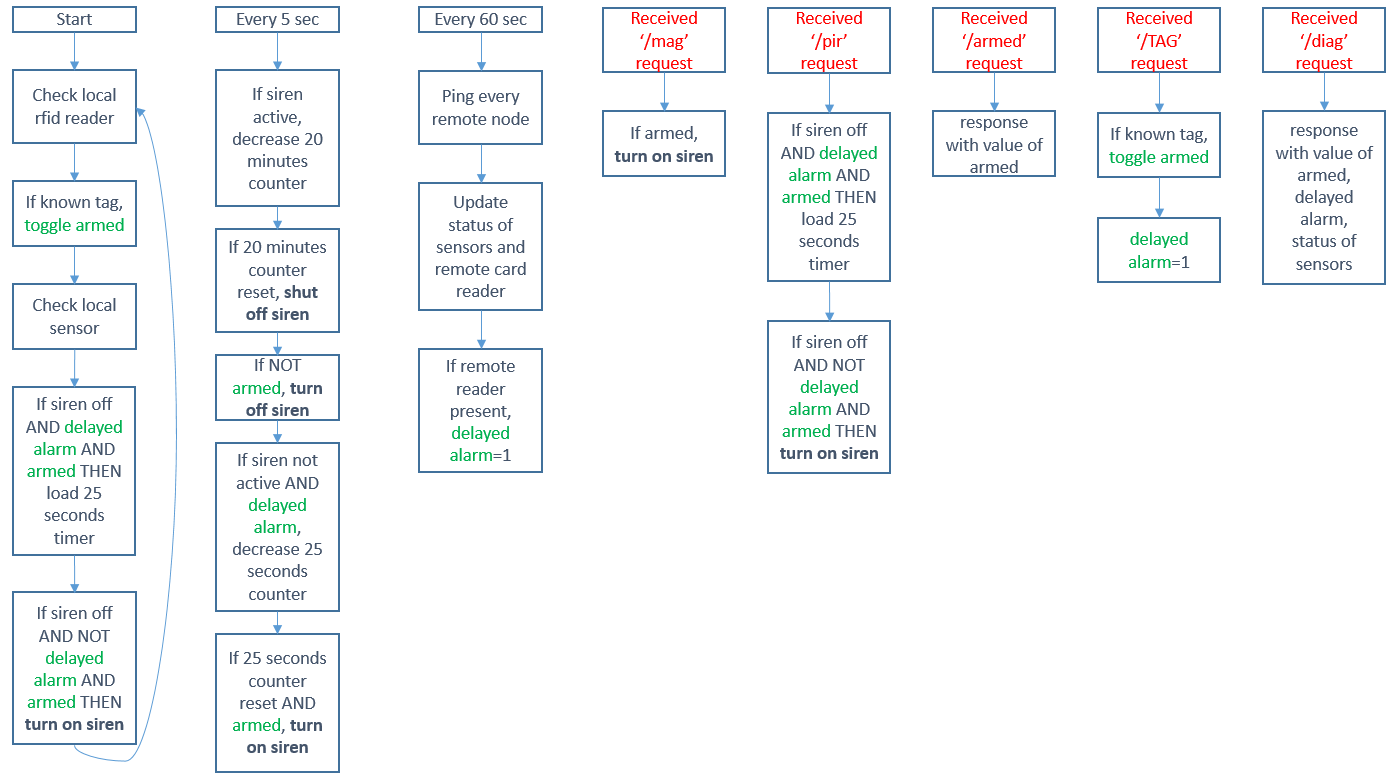
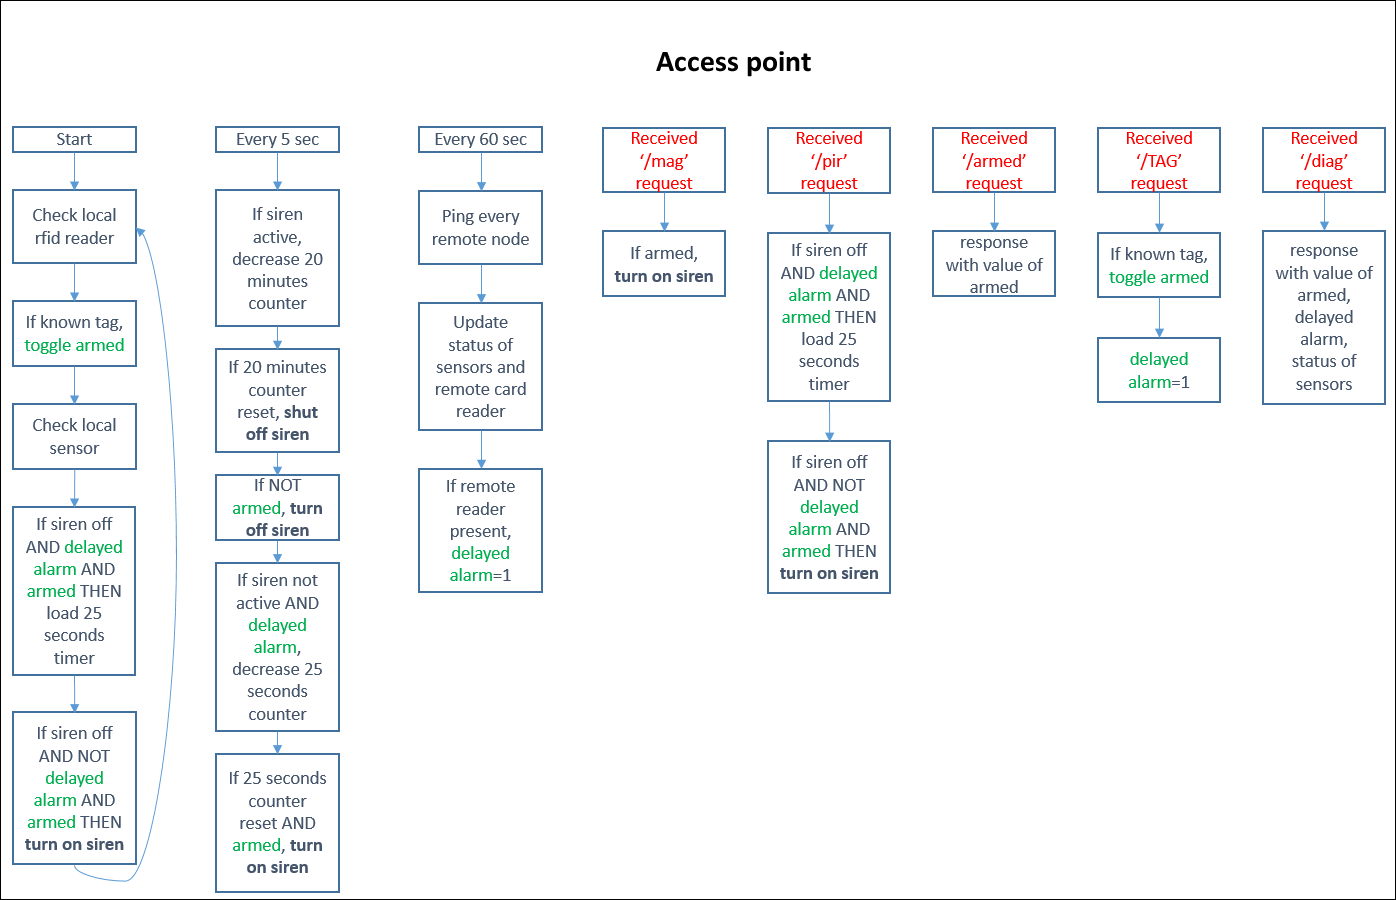
Added license, modified images, changed accesspoint flow

diff --git a/README.md b/README.md
@@ -1,5 +1,5 @@
 # esp8266-safehome
-ESP8266 (NodeMCU v1.0) safe home system with RFID authentication and multiple wireless sensors
+ESP8266 (NodeMCU v1.0) home safety system with RFID authentication and multiple wireless sensors
 
 ## Cybersecurity notes
 Within version 2.4.0 of *Arduino core for ESP8266 WiFi chip* (released Jan 2, 2018) such project is secure against KRACK WPA2 attack.
